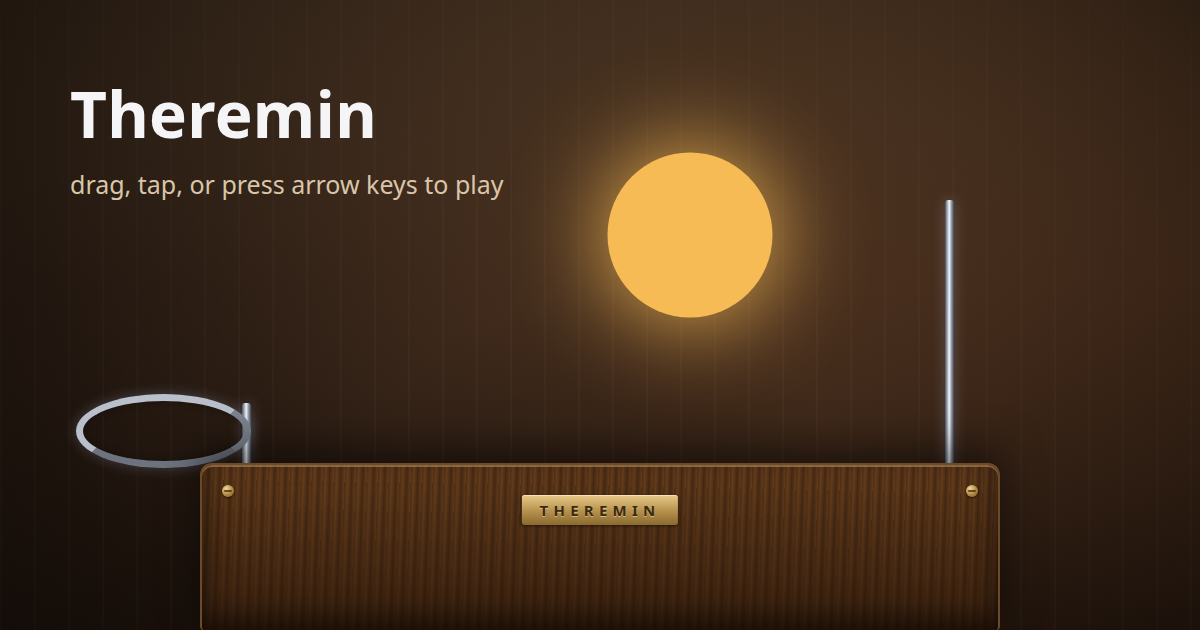
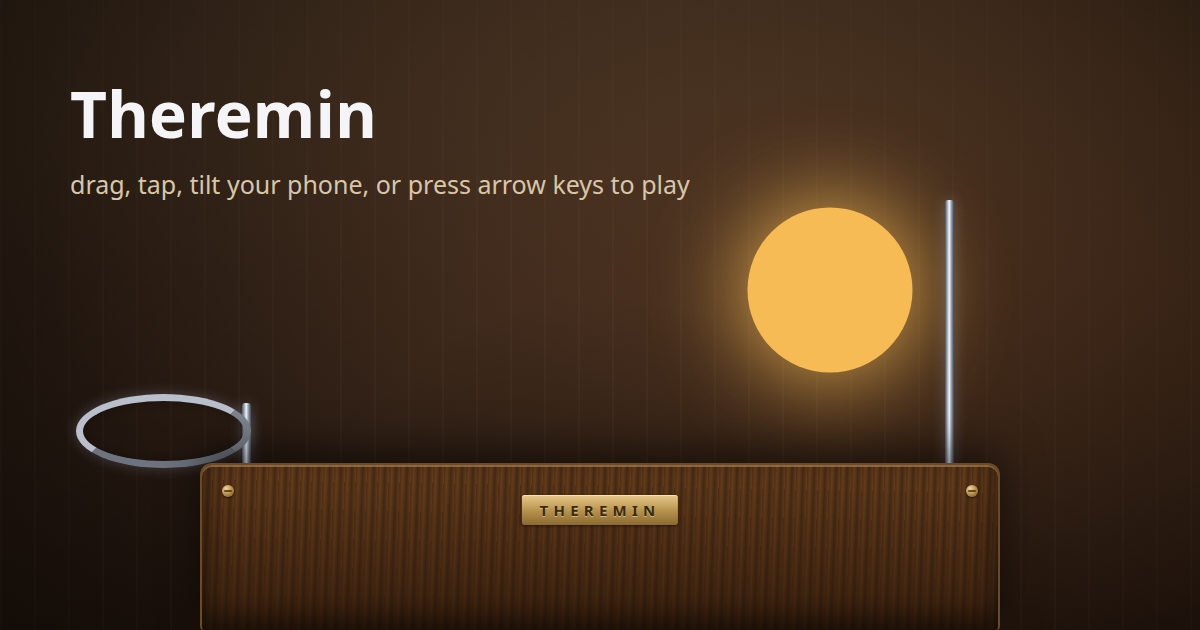
instrument: play it by tilting the phone
Week 4's brief calls mobile fertile 'because of touch and motion sensors';
the prototype used touch and ignored motion. A theremin is played by moving
through space, so the device becomes the second hand: rolling it bends the
pitch up to seven semitones, tipping it away damps the volume toward a floor
rather than to silence.

Both are measured against a reference reading taken when the note starts, so
any grip is neutral and no pose has to be found first. Motion arms on the
first pointerdown rather than a button --- that is a user gesture, which is
all iOS needs to grant orientation --- so there is still nothing to read
before you play, and a refusal costs only the tilt.

The mapping lives in its own module with unit tests, per CLAUDE.md: it is the
one input with no visible scale, so an unbounded bend or a gain that reached
true silence would read as broken. Also declares a favicon, so the browser
stops probing a /favicon.ico the Pages base path never serves --- a standing
console 404 is noise that teaches you to stop reading the console.

Changed region(s): [[0.1542, 0.181, 0.8017, 0.6635]]

diff --git a/src/scripts/main.ts b/src/scripts/main.ts
@@ -1,3 +1,5 @@
+import { bendFactor, tiltGainFactor } from "./motion.ts";
+
 const stage = document.querySelector<HTMLElement>("#stage");
 const hint = document.querySelector<HTMLElement>("#hint");
 const infoToggle = document.querySelector<HTMLButtonElement>("#info-toggle");
@@ -26,6 +28,9 @@ if (stage && hint) {
     oscillator: OscillatorNode;
     gain: GainNode;
     glow: HTMLElement;
+    // Last pointer position, so a tilt can re-voice a note nobody is moving.
+    x: number;
+    y: number;
   }
 
   const voices = new Map<string, Voice>();
@@ -54,7 +59,76 @@ if (stage && hint) {
   // modern colour picker, which fights the cabinet the instrument sits in.
   function hueForFreq(freq: number): number {
     const ratio = Math.log(freq / MIN_FREQ) / Math.log(MAX_FREQ / MIN_FREQ);
-    return 6 + ratio * 46;
+    return 6 + clamp01(ratio) * 46;
+  }
+
+  function clamp01(n: number): number {
+    return Math.min(Math.max(n, 0), 1);
+  }
+
+  // --- Motion -------------------------------------------------------------
+  // The mapping itself lives in ./motion.ts so it can be unit-tested; this is
+  // only the plumbing. Nothing can sound before the stage has been touched,
+  // and desktop fires no orientation events at all, so on desktop both factors
+  // stay at 1 and the instrument is exactly as it was.
+
+  let motionListening = false;
+  let hasReference = false;
+  let liveGamma = 0;
+  let liveBeta = 0;
+  let refGamma = 0;
+  let refBeta = 0;
+
+  function currentBend(): number {
+    return hasReference ? bendFactor(liveGamma, refGamma) : 1;
+  }
+
+  function currentTiltGain(): number {
+    return hasReference ? tiltGainFactor(liveBeta, refBeta) : 1;
+  }
+
+  function handleOrientation(event: DeviceOrientationEvent): void {
+    if (event.gamma === null || event.beta === null) return;
+    liveGamma = event.gamma;
+    liveBeta = event.beta;
+    if (!hasReference) {
+      hasReference = true;
+      refGamma = liveGamma;
+      refBeta = liveBeta;
+    }
+    for (const [id, voice] of voices) {
+      updateVoice(id, voice.x, voice.y);
+    }
+  }
+
+  function listenForMotion(): void {
+    if (motionListening || !("DeviceOrientationEvent" in window)) return;
+    motionListening = true;
+    window.addEventListener("deviceorientation", handleOrientation);
+  }
+
+  // iOS only hands out orientation from inside a user gesture, so the ask rides
+  // on the first touch instead of a button: there is still nothing to read
+  // before you play, and refusing it costs only the tilt.
+  function requestMotion(): void {
+    if (motionListening || !("DeviceOrientationEvent" in window)) return;
+    const request = (
+      DeviceOrientationEvent as unknown as {
+        requestPermission?: () => Promise<PermissionState | string>;
+      }
+    ).requestPermission;
+    if (typeof request !== "function") {
+      listenForMotion();
+      return;
+    }
+    void request
+      .call(DeviceOrientationEvent)
+      .then((state) => {
+        if (state === "granted") listenForMotion();
+      })
+      .catch(() => {
+        /* Denied or unavailable: touch and keyboard still play it in full. */
+      });
   }
 
   function markSounded(): void {
@@ -65,6 +139,13 @@ if (stage && hint) {
   }
 
   function startVoice(id: string, x: number, y: number): void {
+    // However the phone is being held as the first note starts is "centre".
+    // Only once a reading has actually arrived — before that there is nothing
+    // to centre on, and handleOrientation adopts the first one it sees.
+    if (voices.size === 0 && hasReference) {
+      refGamma = liveGamma;
+      refBeta = liveBeta;
+    }
     const ctx = ensureAudioContext();
     const oscillator = ctx.createOscillator();
     const gain = ctx.createGain();
@@ -82,7 +163,7 @@ if (stage && hint) {
     glow.className = "glow";
     stage!.appendChild(glow);
 
-    voices.set(id, { oscillator, gain, glow });
+    voices.set(id, { oscillator, gain, glow, x, y });
     updateVoice(id, x, y);
     markSounded();
   }
@@ -90,11 +171,13 @@ if (stage && hint) {
   function updateVoice(id: string, x: number, y: number): void {
     const voice = voices.get(id);
     if (!voice || !audioContext) return;
+    voice.x = x;
+    voice.y = y;
     const rect = stage!.getBoundingClientRect();
     const localX = x - rect.left;
     const localY = y - rect.top;
-    const freq = freqForX(localX, rect.width);
-    const gainValue = gainForY(localY, rect.height);
+    const freq = freqForX(localX, rect.width) * currentBend();
+    const gainValue = gainForY(localY, rect.height) * currentTiltGain();
     voice.oscillator.frequency.setTargetAtTime(freq, audioContext.currentTime, RAMP_SECONDS);
     voice.gain.gain.setTargetAtTime(gainValue, audioContext.currentTime, RAMP_SECONDS);
 
@@ -120,6 +203,7 @@ if (stage && hint) {
 
   stage.addEventListener("pointerdown", (event) => {
     stage.setPointerCapture(event.pointerId);
+    requestMotion();
     startVoice(`pointer-${event.pointerId}`, event.clientX, event.clientY);
   });
 

diff --git a/spec/motion.test.ts b/spec/motion.test.ts
@@ -1,0 +1,92 @@
+import { describe, expect, it } from "vitest";
+import {
+  BEND_SEMITONES,
+  MIN_TILT_GAIN,
+  TILT_RANGE_DEG,
+  bendFactor,
+  tiltGainFactor,
+} from "../src/scripts/motion.ts";
+
+// The brief's line is that there should be no way to play it wrong. Tilt is
+// the one input the player cannot see a scale for, so it is the one most able
+// to break that promise: an unbounded bend, a gain that reaches silence, or a
+// mapping that misbehaves at an odd grip would all make the phone feel broken
+// rather than expressive. These pin the edges.
+
+const SWEEP = Array.from({ length: 721 }, (_, i) => i - 360);
+
+describe("motion: rolling the device bends the pitch", () => {
+  it("does nothing at the reference grip, whatever that grip was", () => {
+    for (const ref of [-90, -37.5, 0, 12, 88]) {
+      expect(bendFactor(ref, ref)).toBe(1);
+    }
+  });
+
+  it("bends up to the right and down to the left", () => {
+    expect(bendFactor(TILT_RANGE_DEG, 0)).toBeCloseTo(2 ** (BEND_SEMITONES / 12), 10);
+    expect(bendFactor(-TILT_RANGE_DEG, 0)).toBeCloseTo(2 ** (-BEND_SEMITONES / 12), 10);
+  });
+
+  it("is symmetric, so a wobble returns to the note it left", () => {
+    for (const d of [1, 7, 19, 40, 200]) {
+      expect(bendFactor(d, 0) * bendFactor(-d, 0)).toBeCloseTo(1, 10);
+    }
+  });
+
+  it("clamps past full roll instead of running away", () => {
+    const full = bendFactor(TILT_RANGE_DEG, 0);
+    for (const d of [TILT_RANGE_DEG, 90, 180, 1e6]) {
+      expect(bendFactor(d, 0)).toBeCloseTo(full, 10);
+    }
+  });
+
+  it("stays inside a semitone range across every reading", () => {
+    const max = 2 ** (BEND_SEMITONES / 12);
+    for (const g of SWEEP) {
+      const f = bendFactor(g, 0);
+      expect(Number.isFinite(f)).toBe(true);
+      expect(f).toBeGreaterThanOrEqual(1 / max - 1e-12);
+      expect(f).toBeLessThanOrEqual(max + 1e-12);
+    }
+  });
+
+  it("measures from the reference, not from level", () => {
+    // Playing while lying on your side must feel the same as sitting upright.
+    expect(bendFactor(75, 65)).toBeCloseTo(bendFactor(10, 0), 10);
+  });
+});
+
+describe("motion: tipping the device damps the volume", () => {
+  it("leaves the note alone at the reference grip", () => {
+    for (const ref of [-40, 0, 45, 130]) {
+      expect(tiltGainFactor(ref, ref)).toBe(1);
+    }
+  });
+
+  it("damps as the device tips away from the player", () => {
+    expect(tiltGainFactor(-TILT_RANGE_DEG, 0)).toBeCloseTo(MIN_TILT_GAIN, 10);
+    expect(tiltGainFactor(-TILT_RANGE_DEG / 2, 0)).toBeLessThan(1);
+    expect(tiltGainFactor(-TILT_RANGE_DEG / 2, 0)).toBeGreaterThan(MIN_TILT_GAIN);
+  });
+
+  it("never damps all the way to silence, which would read as broken", () => {
+    for (const b of SWEEP) {
+      expect(tiltGainFactor(b, 0)).toBeGreaterThanOrEqual(MIN_TILT_GAIN);
+    }
+  });
+
+  it("never makes a note louder than the touch asked for", () => {
+    for (const b of SWEEP) {
+      expect(tiltGainFactor(b, 0)).toBeLessThanOrEqual(1);
+    }
+  });
+
+  it("is monotonic, so damping feels like one continuous move", () => {
+    let previous = tiltGainFactor(-360, 0);
+    for (const b of SWEEP) {
+      const current = tiltGainFactor(b, 0);
+      expect(current).toBeGreaterThanOrEqual(previous - 1e-12);
+      previous = current;
+    }
+  });
+});

diff --git a/src/scripts/motion.ts b/src/scripts/motion.ts
@@ -1,0 +1,42 @@
+// The motion mapping, kept out of the DOM so it can be tested directly.
+//
+// On a phone the hand holding the device is the hand a theremin player waves.
+// Rolling it bends the pitch; tipping it away damps the volume, the way moving
+// a hand toward the volume loop does. Both are measured as a deviation from a
+// reference reading taken when the note started, so any grip is neutral.
+
+/** Bend depth at full roll, either side of centre. */
+export const BEND_SEMITONES = 7;
+
+/** Degrees of tilt that reach full effect. Beyond this it clamps. */
+export const TILT_RANGE_DEG = 40;
+
+/** Quietest a full tip-away can get. Not zero: silence reads as broken. */
+export const MIN_TILT_GAIN = 0.08;
+
+export function clampUnit(n: number): number {
+  return Math.min(Math.max(n, -1), 1);
+}
+
+/**
+ * Multiplier on the touch-set frequency. 1 at centre, rising as the device
+ * rolls right and falling as it rolls left, clamped to +/- BEND_SEMITONES.
+ */
+export function bendFactor(liveGamma: number, refGamma: number): number {
+  const offset = clampUnit((liveGamma - refGamma) / TILT_RANGE_DEG);
+  return 2 ** ((offset * BEND_SEMITONES) / 12);
+}
+
+/**
+ * Multiplier on the touch-set gain. Tipping the device away from you (beta
+ * falling below the reference) damps toward MIN_TILT_GAIN; tipping it back
+ * does nothing, so tilt can only ever quieten a note, never overdrive one.
+ */
+export function tiltGainFactor(liveBeta: number, refBeta: number): number {
+  const offset = clampUnit((liveBeta - refBeta) / TILT_RANGE_DEG);
+  if (offset >= 0) return 1;
+  // Interpolating up from the floor rather than down from 1: algebraically the
+  // same, but it lands on exactly MIN_TILT_GAIN at full tip instead of a float
+  // hair below it, so the floor is a floor.
+  return MIN_TILT_GAIN + (1 + offset) * (1 - MIN_TILT_GAIN);
+}
